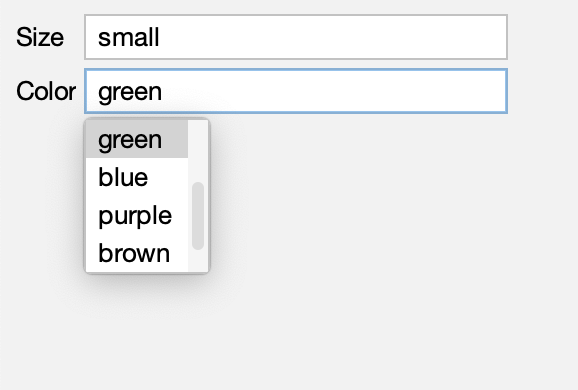
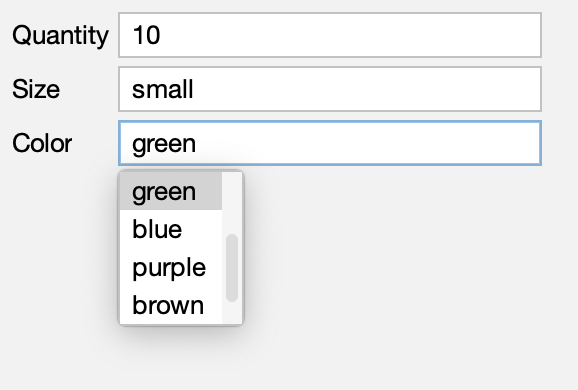
Restore focus to text field when value is selected.

Changed region(s): [[0.0, 0.0308, 0.9654, 0.8923], [0.9343, 0.1846, 0.9654, 0.2769]]

diff --git a/sierra/src/main/java/org/httprpc/sierra/Picker.java b/sierra/src/main/java/org/httprpc/sierra/Picker.java
@@ -135,7 +135,7 @@ public abstract class Picker extends JTextField {
 
         return false;
     }
-  
+
     /**
      * Processes a key event.
      * {@inheritDoc}
@@ -165,7 +165,10 @@ public abstract class Picker extends JTextField {
      */
     protected abstract JComponent getPopupComponent();
 
-    private void showPopup() {
+    /**
+     * Shows the popup.
+     */
+    protected void showPopup() {
         if (popup != null || !isPopupEnabled()) {
             return;
         }
@@ -204,7 +207,10 @@ public abstract class Picker extends JTextField {
         addHierarchyBoundsListener(hierarchyBoundsListener);
     }
 
-    private void hidePopup() {
+    /**
+     * Hides the popup.
+     */
+    protected void hidePopup() {
         if (popup == null) {
             return;
         }

diff --git a/sierra-test/src/main/java/org/httprpc/sierra/test/SuggestionPickerTest.java b/sierra-test/src/main/java/org/httprpc/sierra/test/SuggestionPickerTest.java
@@ -19,6 +19,7 @@ import org.httprpc.sierra.SuggestionPicker;
 
 import javax.swing.JFrame;
 import javax.swing.JLabel;
+import javax.swing.JTextField;
 import javax.swing.SwingUtilities;
 import javax.swing.border.EmptyBorder;
 import java.util.Arrays;
@@ -35,6 +36,10 @@ public class SuggestionPickerTest extends JFrame implements Runnable {
     @Override
     public void run() {
         setContentPane(column(4, true,
+            row(4,
+                cell(new JLabel("Quantity")),
+                cell(new JTextField(18))
+            ),
             row(4,
                 cell(new JLabel("Size")),
                 cell(new SuggestionPicker(18)).with(suggestionPicker -> {

diff --git a/sierra/src/main/java/org/httprpc/sierra/DatePicker.java b/sierra/src/main/java/org/httprpc/sierra/DatePicker.java
@@ -68,7 +68,7 @@ public class DatePicker extends Picker {
 
                 DatePicker.super.fireActionPerformed();
 
-                DatePicker.this.getRootPane().requestFocus();
+                hidePopup();
             }
         }
 

diff --git a/sierra/src/main/java/org/httprpc/sierra/SuggestionPicker.java b/sierra/src/main/java/org/httprpc/sierra/SuggestionPicker.java
@@ -142,7 +142,7 @@ public class SuggestionPicker extends Picker {
 
             super.fireActionPerformed();
 
-            getRootPane().requestFocus();
+            hidePopup();
         });
 
         return scrollPane;

diff --git a/sierra/src/main/java/org/httprpc/sierra/TimePicker.java b/sierra/src/main/java/org/httprpc/sierra/TimePicker.java
@@ -314,7 +314,7 @@ public class TimePicker extends Picker {
 
             super.fireActionPerformed();
 
-            getRootPane().requestFocus();
+            hidePopup();
         });
 
         return scrollPane;

diff --git a/README.md b/README.md
@@ -91,7 +91,7 @@ The `DatePicker` and `TimePicker` components allow a user to select a local date
 These classes are localized. See [DateTimePickerTest.java](https://github.com/HTTP-RPC/Sierra/blob/master/sierra-test/src/main/java/org/httprpc/sierra/test/DateTimePickerTest.java) for more information.
 
 ### Suggestion Pickers
-The `SuggestionPicker` component allows a user to select from a list of predefined values: 
+The `SuggestionPicker` component allows a user to choose from a list of predefined values: 
 
 <img src="README/suggestion-picker.png" width="289px"/>
 
